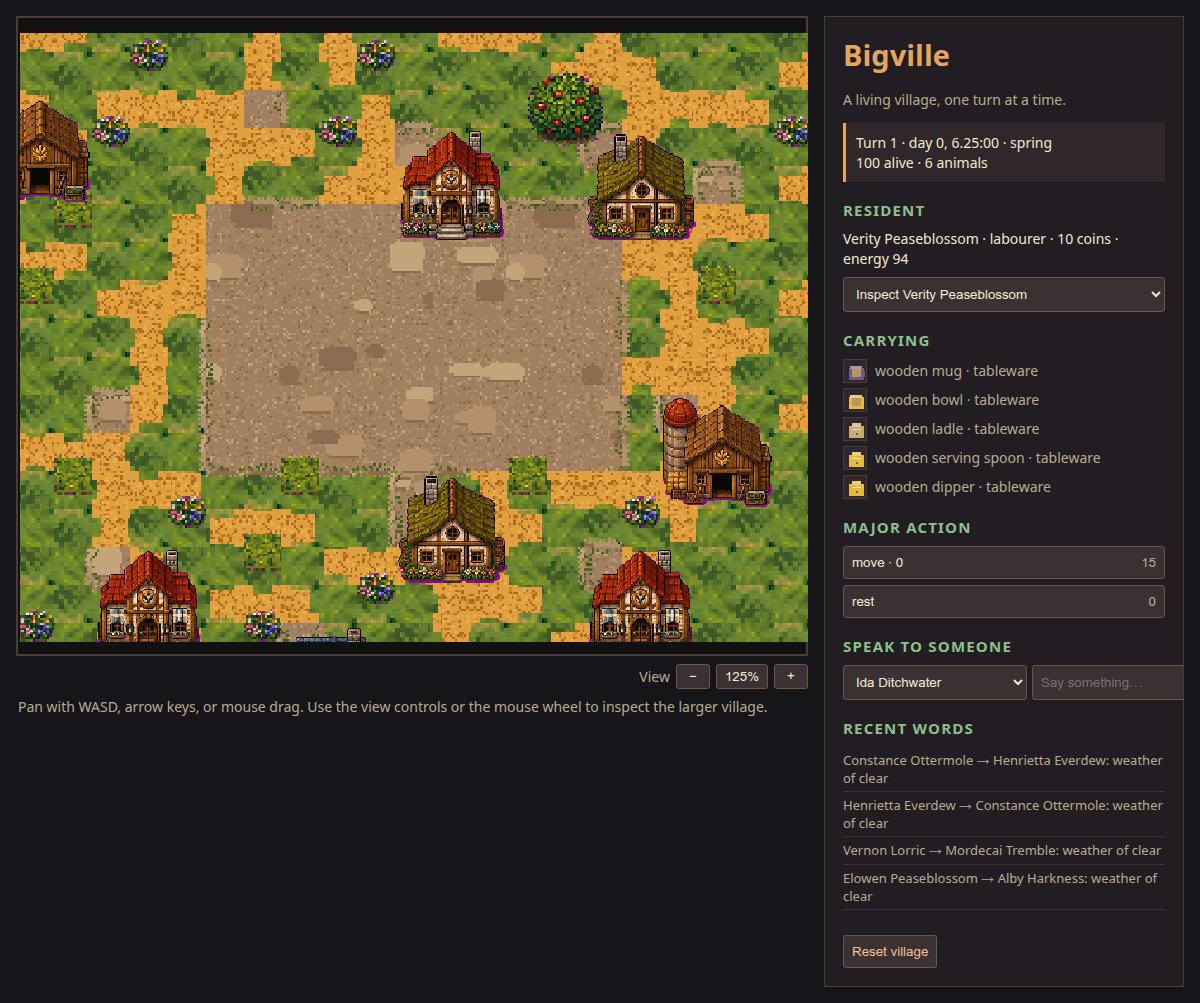
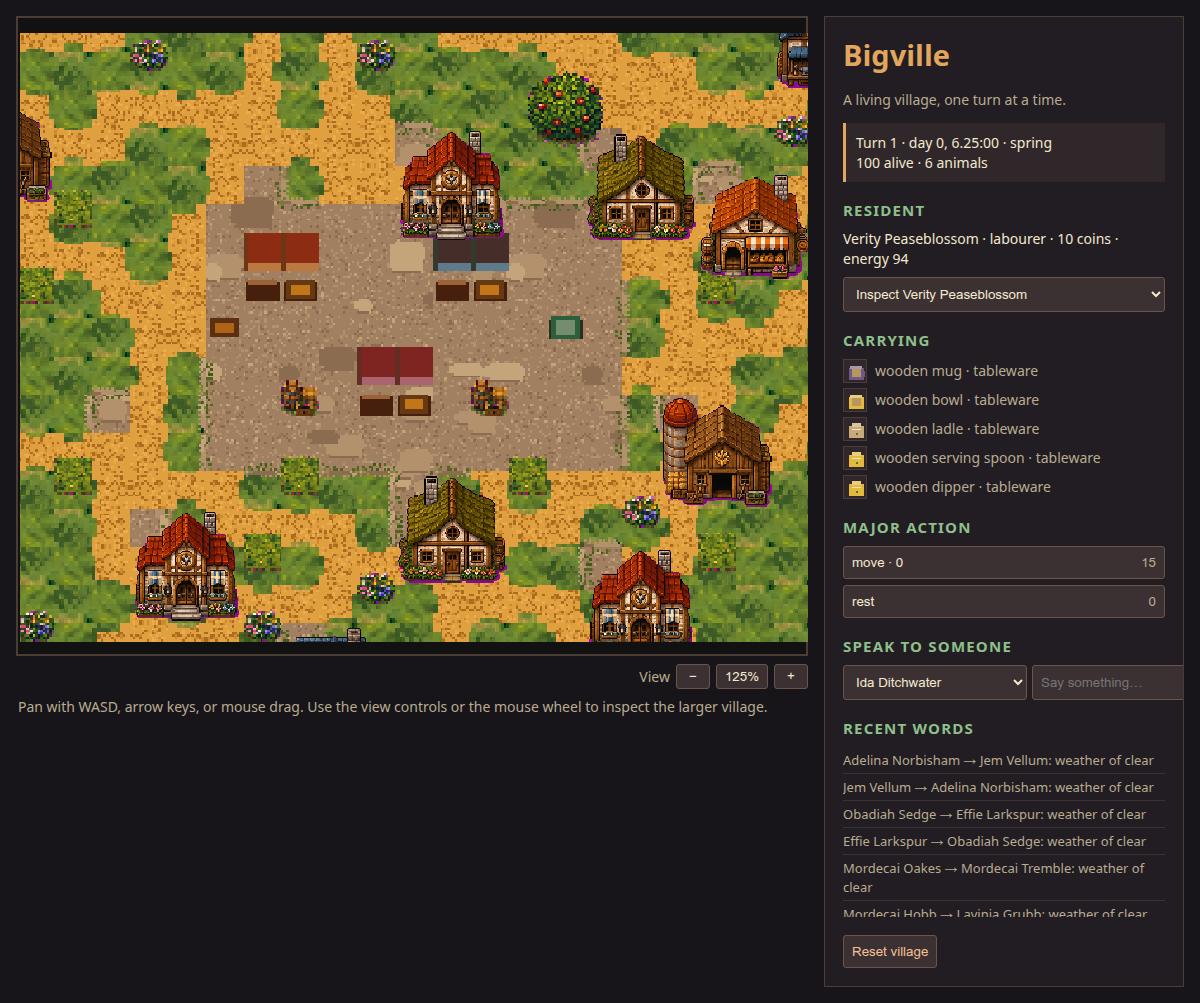
Add civic square fixtures and missing church

diff --git a/bigville/game/game.js b/bigville/game/game.js
@@ -271,6 +271,7 @@ class BigvilleScene extends Phaser.Scene {
     const height = map.height * TILE * DISPLAY_SCALE;
     this.drawCanonicalMap(map);
     this.drawTerrainProps(map);
+    this.drawSquareFixtures(map);
     const allResidents = snapshot.world.residents || [];
     this.playerId = snapshot.player;
     const playerResident = allResidents.find((resident) => resident.id === snapshot.player);
@@ -580,6 +581,50 @@ class BigvilleScene extends Phaser.Scene {
           // without making the walkable route ambiguous.
           addProp(roll % 2 ? 'barrel' : 'bench', x, y, 1.15);
         }
+      }
+    }
+  }
+
+  drawSquareFixtures(map) {
+    const fixtures = map.square_fixtures || [];
+    if (!fixtures.length) return;
+    const parts = this.assetManifest?.buildings?.parts || {};
+    const props = this.styleManifest?.props?.sprites || this.assetManifest?.terrain?.props || {};
+    const addPart = (name, x, y, depth, tint = null) => {
+      if (parts[name] === undefined) return;
+      const sprite = this.add.sprite(this.cellX(x), this.cellY(y) - 4 * DISPLAY_SCALE,
+        'building_parts', parts[name]).setScale(DISPLAY_SCALE)
+        .setDepth(this.depthAt(x, y, depth));
+      if (tint !== null) sprite.setTint(tint);
+      this.objects.push(sprite);
+    };
+    const addProp = (name, x, y, depth = 2.4) => {
+      if (props[name] === undefined) return;
+      const sprite = this.add.sprite(this.cellX(x), this.cellY(y) - 6 * DISPLAY_SCALE,
+        'props', props[name]).setScale(DISPLAY_SCALE)
+        .setDepth(this.depthAt(x, y, depth));
+      this.objects.push(sprite);
+    };
+    for (const fixture of fixtures) {
+      const x = Number(fixture.x || 0);
+      const y = Number(fixture.y || 0);
+      if (fixture.kind === 'market_stall') {
+        const colour = fixture.goods?.includes('bread') ? 0xc9854f
+          : fixture.goods?.includes('fish') ? 0x6388a7 : 0xb56f88;
+        // Two-cell canopy and counter: a stall reads as a little civic object
+        // while remaining assembled from the same reusable building vocabulary.
+        addPart('roof_edge', x, y, 2.2, colour);
+        addPart('roof_edge', x + 1, y, 2.2, colour);
+        addPart('counter', x, y + 1, 2.3, 0xa66d43);
+        addPart('counter', x + 1, y + 1, 2.3, 0xa66d43);
+        addPart('sign', x + 1, y + 1, 2.5, 0xf0c36b);
+      } else if (fixture.kind === 'noticeboard') {
+        addPart('sign', x, y, 2.5, 0xd7a45c);
+      } else if (fixture.kind === 'well') {
+        addPart('counter', x, y, 2.4, 0x7499a0);
+        addPart('rug', x, y, 2.5, 0x8fb8b5);
+      } else if (fixture.kind === 'bench') {
+        addProp('bench', x, y);
       }
     }
   }

diff --git a/worlds/bigville_world.py b/worlds/bigville_world.py
@@ -445,18 +445,39 @@ class BigvilleWorld:
         # as every other village activity.
         self._square = self.eng.add_node("Square", {"name": "town square"})
         self._noticeboard = self.eng.add_node("Noticeboard", {"name": "town noticeboard"})
+        self._square_fixtures = {}
         self.eng.add_edge_unchecked(self._town, "has_square", self._square)
         self.eng.add_edge_unchecked(self._square, "has_board", self._noticeboard)
         square_cell = self._map_layout.get("work", {}).get("market") if self._map_layout else None
         if square_cell in self._map_cells:
             self.eng.add_edge_unchecked(self._square, "at_cell", self._map_cells[square_cell])
             self.eng.add_edge_unchecked(self._noticeboard, "at_cell", self._map_cells[square_cell])
+        self._install_square_fixtures()
 
         # The canonical store is also a physical place on the integrated map.
         market = self._map_layout.get("work", {}).get("market") if self._map_layout else None
         if market in self._map_cells:
             self.eng.add_edge_unchecked(self._store, "at_cell", self._map_cells[market])
         self._seed_written_documents()
+
+    def _install_square_fixtures(self):
+        """Install the market and civic fixtures at the scenario's square."""
+        square = self._map_layout.get("square", {}) if self._map_layout else {}
+        center = tuple(square.get("center", ()))
+        if len(center) != 2:
+            return
+        for fixture in E.TOWN_SQUARE_FIXTURES:
+            offset = fixture.get("offset", (0, 0))
+            cell = (int(center[0]) + int(offset[0]), int(center[1]) + int(offset[1]))
+            node = self.eng.add_node("SquareFixture", {
+                "name": fixture["name"], "kind": fixture["kind"],
+                "goods": tuple(fixture.get("goods", ())),
+                "x": float(cell[0]), "y": float(cell[1]),
+            })
+            self.eng.add_edge_unchecked(self._square, "has_fixture", node)
+            if cell in self._map_cells:
+                self.eng.add_edge_unchecked(node, "at_cell", self._map_cells[cell])
+            self._square_fixtures[fixture["name"]] = node
 
     def _run(self):
         before = {kind: float(self.eng.node(node)["attrs"].get("qty", 0.0))
@@ -4776,7 +4797,15 @@ class BigvilleWorld:
             footprint = tuple(footprint) if len(footprint) == 2 else (3, 3)
             buildings.append({"id": kind, "type": kind, "position": position,
                               "x": x, "y": y, "w": int(footprint[0]), "h": int(footprint[1]),
-                              "name": kind.title()})
+                              "name": spec.get("display_name", kind.title())})
+        square = self._map_layout.get("square", {}) if self._map_layout else {}
+        square_fixtures = []
+        for name, node in getattr(self, "_square_fixtures", {}).items():
+            attrs = self.eng.node(node)["attrs"]
+            square_fixtures.append({"id": name, "name": name,
+                                    "kind": attrs.get("kind", "fixture"),
+                                    "goods": list(attrs.get("goods", ())),
+                                    "x": int(attrs.get("x", 0)), "y": int(attrs.get("y", 0))})
         events = []
         for key, node in list(self._events.items())[-event_tail if event_tail else None:]:
             events.append({"id": key, **dict(self.eng.node(node)["attrs"])})
@@ -4791,6 +4820,7 @@ class BigvilleWorld:
                 "map": {"width": map_width, "height": map_height, "w": map_width, "h": map_height,
                         "seed": map_seed,
                         "terrain_movement": self.terrain_movement_rules(),
+                        "square": dict(square), "square_fixtures": square_fixtures,
                         "grid": self._map_grid, "tiles": self._map_grid,
                         "buildings": buildings},
                 "residents": actors,

diff --git a/worlds/bigville_town100_world.py b/worlds/bigville_town100_world.py
@@ -213,6 +213,29 @@ def _largest_component(grid):
     return best
 
 
+def _largest_surface_component(grid, surfaces):
+    """Return the largest 4-connected component of a named road surface."""
+    seen, best = set(), set()
+    H, W = len(grid), len(grid[0])
+    for sy in range(H):
+        for sx in range(W):
+            if grid[sy][sx] not in surfaces or (sx, sy) in seen:
+                continue
+            comp, stack = set(), [(sx, sy)]
+            seen.add((sx, sy))
+            while stack:
+                cx, cy = stack.pop()
+                comp.add((cx, cy))
+                for nx, ny in ((cx + 1, cy), (cx - 1, cy), (cx, cy + 1), (cx, cy - 1)):
+                    if (0 <= nx < W and 0 <= ny < H and grid[ny][nx] in surfaces
+                            and (nx, ny) not in seen):
+                        seen.add((nx, ny))
+                        stack.append((nx, ny))
+            if len(comp) > len(best):
+                best = comp
+    return best
+
+
 def _adj_road(grid, x, y):
     for nx, ny in ((x + 1, y), (x - 1, y), (x, y + 1), (x, y - 1)):
         if 0 <= nx < len(grid[0]) and 0 <= ny < len(grid) and grid[ny][nx] in (PATH, SQUARE):
@@ -238,13 +261,18 @@ def _windy_horizontal(grid, target_y, phase):
     offsets = (-1, 0, 1, 2, 1, 0, -1, -2)
     route, y = {}, target_y
     for x in range(1, len(grid[0]) - 1):
+        previous_y = y
         desired = target_y + offsets[((x // 3) + phase) % len(offsets)]
         if desired > y:
             y += 1
         elif desired < y:
             y -= 1
         y = max(1, min(len(grid) - 2, y))
-        _carve_path(grid, x, y)
+        # A bend must contain an orthogonal elbow.  Without this, a one-cell
+        # drift from (x-1, previous_y) to (x, y) touches only at a corner and
+        # breaks both walking connectivity and the rendered path continuity.
+        for corner_y in range(min(previous_y, y), max(previous_y, y) + 1):
+            _carve_path(grid, x, corner_y)
         route[x] = y
     return route
 
@@ -254,13 +282,15 @@ def _windy_vertical(grid, target_x, phase):
     offsets = (1, 0, -1, -2, -1, 0, 1, 2)
     route, x = {}, target_x
     for y in range(1, len(grid) - 1):
+        previous_x = x
         desired = target_x + offsets[((y // 3) + phase) % len(offsets)]
         if desired > x:
             x += 1
         elif desired < x:
             x -= 1
         x = max(1, min(len(grid[0]) - 2, x))
-        _carve_path(grid, x, y)
+        for corner_x in range(min(previous_x, x), max(previous_x, x) + 1):
+            _carve_path(grid, corner_x, y)
         route[y] = x
     return route
 
@@ -334,10 +364,20 @@ def build_town_100(seed=SEED_DEFAULT):
         if grid[ty][tx] == GRASS:
             grid[ty][tx] = TREE
 
+    # A resource body can interrupt a route at the edge of the map.  Keep the
+    # intentional road network as one 4-connected surface and discard only
+    # isolated stubs; this prevents diagonal-only or floating path fragments.
+    road = _largest_surface_component(grid, {PATH, SQUARE})
+    for y, row in enumerate(grid):
+        for x, tile in enumerate(row):
+            if tile == PATH and (x, y) not in road:
+                grid[y][x] = GRASS
+
     comp = _largest_component(grid)
 
     # --- deposits: a walkable comp cell adjacent to each body -------------------
-    layout = {"w": W, "h": H, "deposits": {}, "work": {}, "farms": [], "homes": []}
+    layout = {"w": W, "h": H, "deposits": {}, "work": {}, "farms": [], "homes": [],
+              "square": {"x": 18, "y": 15, "w": 11, "h": 7, "center": (23, 18)}}
     ordered = sorted(comp)
     for kind, tile in _BODY_TILE.items():
         cell = next(c for c in ordered if _adj_body(grid, c[0], c[1], tile))

diff --git a/domains/bigville_entities.py b/domains/bigville_entities.py
@@ -520,13 +520,27 @@ BUILDINGS = {
                     "rooms": ["smoke_room"]},
     "townhall":    {"staff_role": "mayor", "provides": "governance", "sheltered": True,
                     "rooms": ["council_room", "records_room"]},
+    "church":      {"staff_role": "pastor", "provides": "worship", "sheltered": True,
+                    "display_name": "Church", "rooms": ["nave", "vestry"]},
     "watchhouse":  {"staff_role": "constable", "provides": "constable", "sheltered": True,
-                    "rooms": ["watch_room", "lockup"]},
+                    "display_name": "Police Station", "rooms": ["watch_room", "lockup"]},
     "records_office": {"staff_role": "clerk", "provides": "land_registry", "sheltered": True,
                        "rooms": ["land_register", "deed_archive", "public_counter"]},
     "scriptorium": {"staff_role": "scribe",    "provides": "scribe",    "sheltered": True,  "rooms": ["deskroom"]},
     "shambles":    {"staff_role": "butcher",   "provides": "butcher",   "sheltered": False, "rooms": ["killing_floor"]},
 }
+
+# Fixtures are physical square contents, not decorative background pixels. Their offsets are
+# interpreted relative to the scenario's declared square bounds and exported to any client.
+TOWN_SQUARE_FIXTURES = [
+    {"name": "north_market_stall", "kind": "market_stall", "offset": [-4, -2], "goods": ["bread", "grain"]},
+    {"name": "east_market_stall", "kind": "market_stall", "offset": [1, -2], "goods": ["fish", "cheese"]},
+    {"name": "west_market_stall", "kind": "market_stall", "offset": [-1, 1], "goods": ["cloth", "tools"]},
+    {"name": "town_noticeboard", "kind": "noticeboard", "offset": [-5, 0], "goods": []},
+    {"name": "public_well", "kind": "well", "offset": [4, 0], "goods": ["water"]},
+    {"name": "south_bench_west", "kind": "bench", "offset": [-3, 2], "goods": []},
+    {"name": "south_bench_east", "kind": "bench", "offset": [2, 2], "goods": []},
+]
 
 # Construction is separate from the catalogue of places already present when the town is
 # founded.  A project can create another instance of any catalogue building (a second granary,

diff --git a/tests/test_bigville_world_migrated.py b/tests/test_bigville_world_migrated.py
@@ -1146,6 +1146,18 @@ def test_canonical_world_imports_the_map_cast_and_resource_sites():
     assert w.eng.node(w._actors["John"])["attrs"]["resolution_bins"] >= 2
 
 
+def test_civic_buildings_and_town_square_fixtures_are_seeded_into_the_map():
+    w = World.from_town100()
+    assert w.building_position("church") in w._map_cells
+    assert w.building_position("watchhouse") in w._map_cells
+    state = w.export_state()
+    assert {building["name"] for building in state["map"]["buildings"] if building["type"] in {"church", "watchhouse"}} == {
+        "Church", "Police Station"
+    }
+    kinds = {fixture["kind"] for fixture in state["map"]["square_fixtures"]}
+    assert {"market_stall", "noticeboard", "well", "bench"} <= kinds
+
+
 def test_map_entities_have_home_work_land_and_building_anchors():
     w = World.from_town100()
     # The expanded road network is intentionally gently winding, so the deterministic home
@@ -1179,6 +1191,23 @@ def test_weighted_travel_prefers_the_seeded_fast_surface_when_available():
     assert w.travel_time(start, destination) <= w.distance(start, destination)
     move_options = [option for option in w.actor_affordances("John") if option["action"] == "move"]
     assert move_options and all("terrain_speed" in option for option in move_options)
+
+
+def test_winding_paths_are_orthogonally_continuous_through_corners():
+    w = World.from_town100()
+    path_cells = {
+        (x, y) for y, row in enumerate(w._map_grid) for x, tile in enumerate(row)
+        if tile in {1, 4}  # PATH and the walkable central SQUARE
+    }
+    start = next(iter(path_cells))
+    seen, frontier = {start}, [start]
+    while frontier:
+        x, y = frontier.pop()
+        for neighbour in ((x + 1, y), (x - 1, y), (x, y + 1), (x, y - 1)):
+            if neighbour in path_cells and neighbour not in seen:
+                seen.add(neighbour)
+                frontier.append(neighbour)
+    assert seen == path_cells
 
 
 def test_building_projects_consume_physical_materials_and_mint_a_place():
